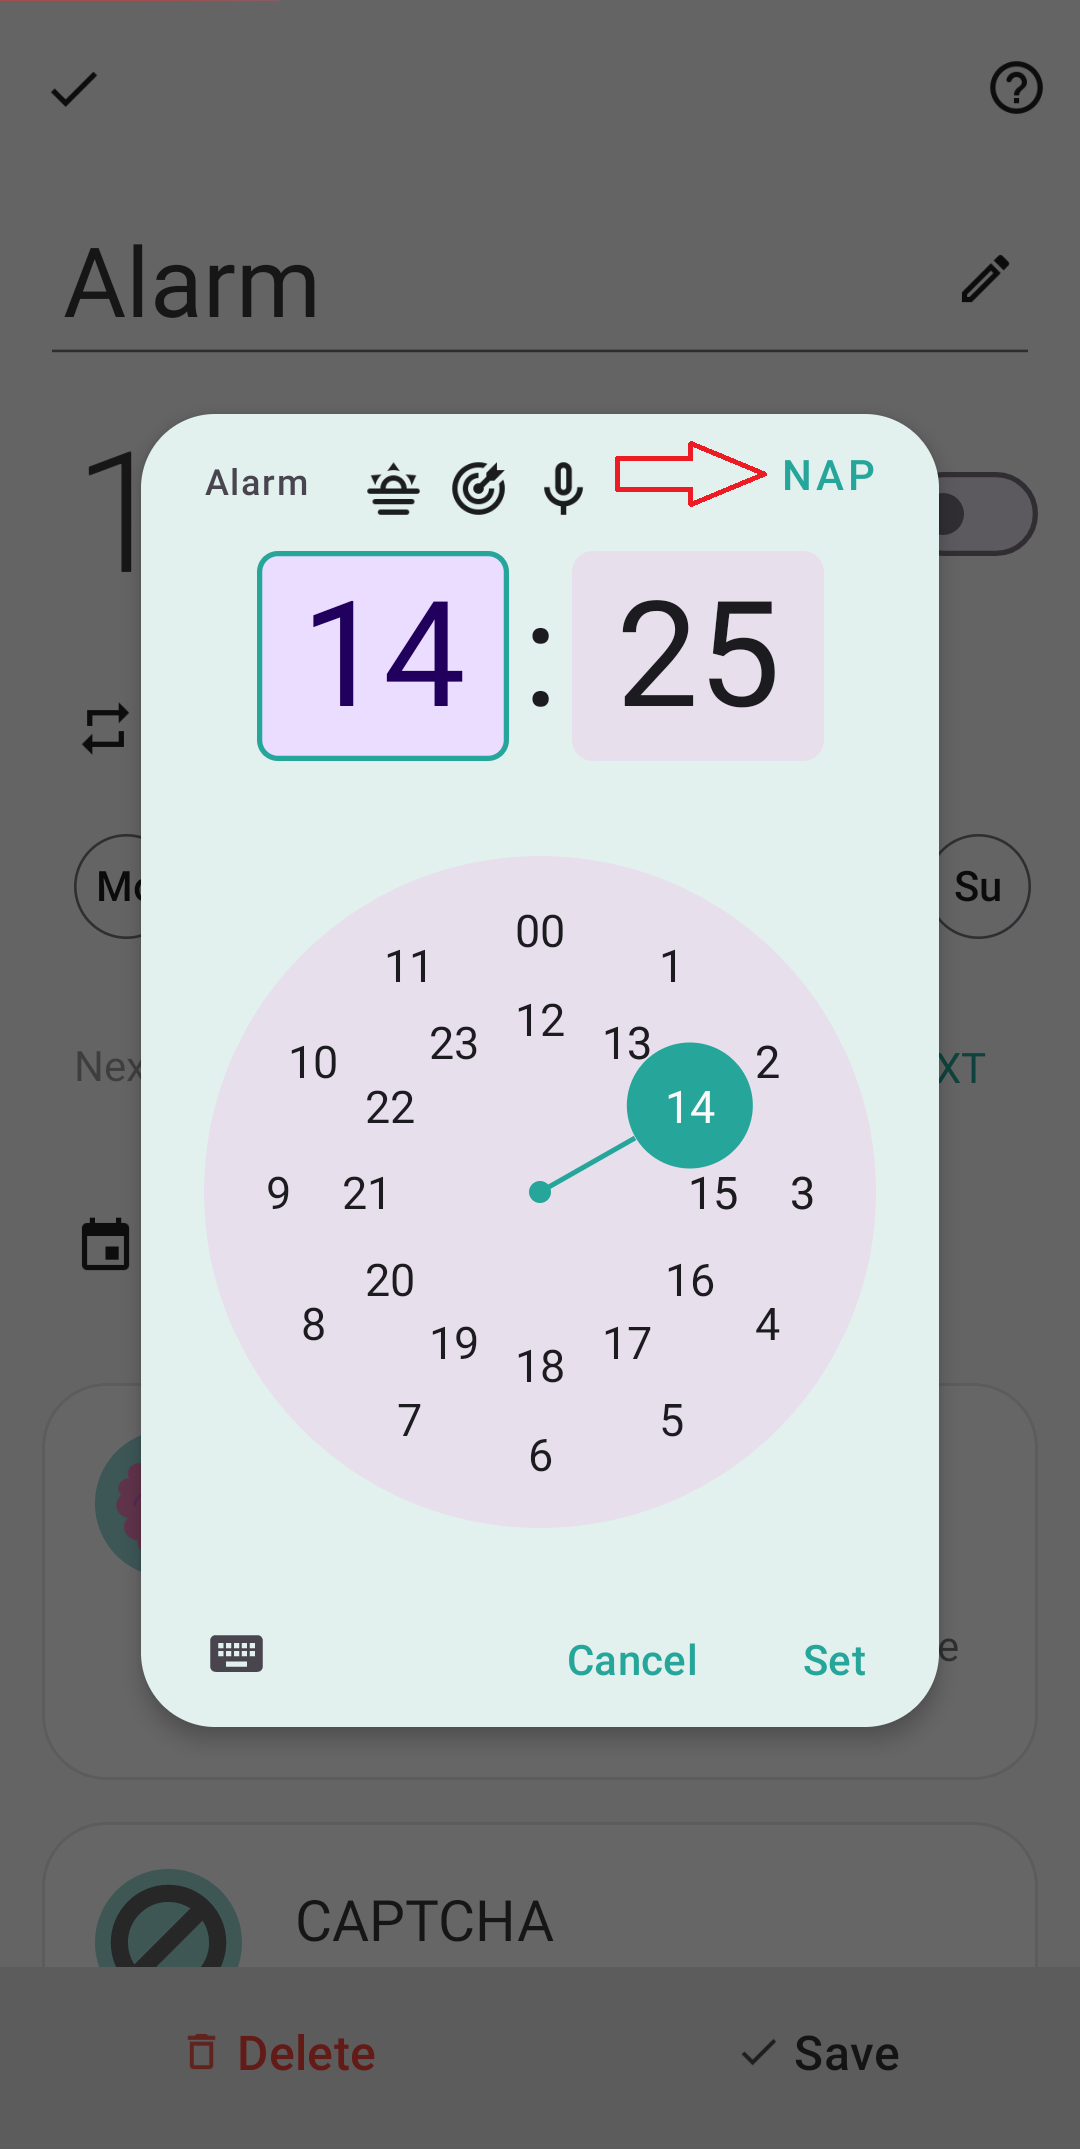
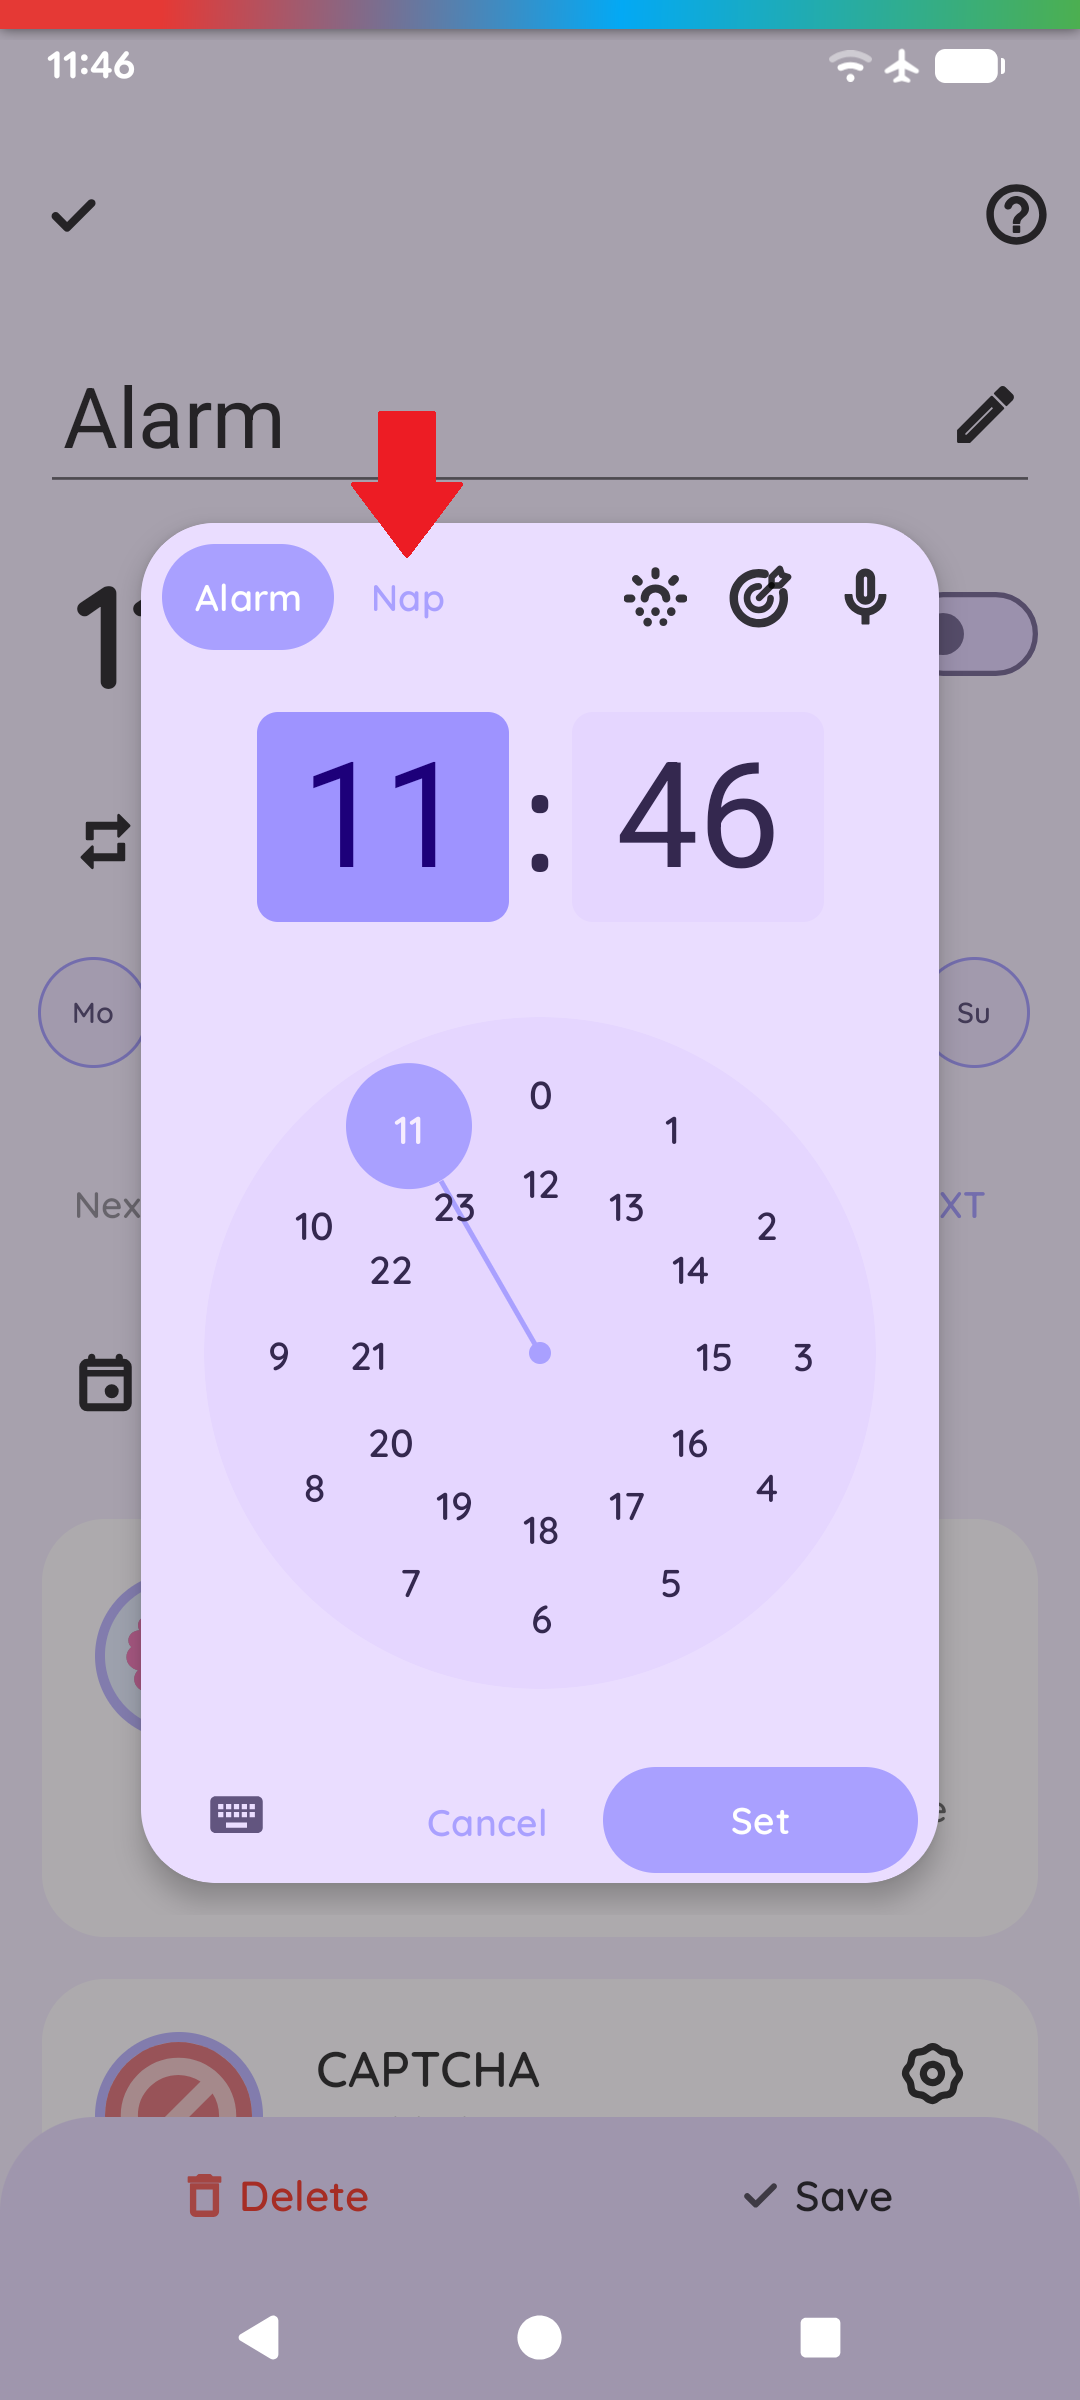
alarms + wearables chapters images

diff --git a/hugo/content/devices/supported_wearable.md b/hugo/content/devices/supported_wearable.md
@@ -16,7 +16,10 @@ tags:
 **Sleep as Android** supports a wide range of smartwatches and fitness trackers. Whether you use a modern Wear OS device, a classic Pebble, or a high-precision Polar strap, you can monitor your sleep cycles with ease.
 
 ### 🏆 Our Top Pick
+
 **TicWatch 5 PRO:** We currently recommend this model for the best experience. It offers a complete sensor suite including SpO2, HR, and HRV. [Read more about our top pick here](https://sleep.urbandroid.org/we-finally-have-a-new-king-of-smart-watch/).
+
+**Pebble Time 2:** As long-time fans of the original, we are thrilled to support the new Pebble models as well.
 
 ---
 
@@ -30,19 +33,18 @@ tags:
 
 ## Supported Devices
 
- Manufacturer | Device | Supported Sensors | Notes |
- :--- | :--- | :--- | :--- |
- **Mobvoi** | TicWatch Pro 5, Pro 3, E3 | ↝ ❤ 💟 ◌ | **Full Support.** Includes continuous SpO2 and HRV tracking. |
- **Wear OS** | Other Wear OS watches | ↝ ❤ | Requires the [watch app](/devices/wearos.html) from the Play Store. |
- **Pebble** | All models (Time, 2, Classic) | ↝ ❤ | [Pebble is still supported!](/devices/pebble.html) HR available on Pebble 2. |
- **Google** | Pixel Watch 1, 2, 3 | ↝ ❤ | SpO2 and HRV data is currently restricted by Google for 3rd party apps. |
- **Polar** | H10, OH1, Vantage, Pacer, Ignite | ❤ 💟 | High-precision tracking via [Polar BT](https://sleep.urbandroid.org/polar-sleep-tracking) or [Polar SDK](https://github.com/polarofficial/polar-ble-sdk/blob/master/documentation/UsingSDKWithWatches.md). |
- **Samsung** | Galaxy Watch 4 through 9 | ↝ ❤ | Requires the [watch app](/devices/one_ui.html) from the Play Store. |
- **Xiaomi** | Mi Band 1 through 9 | ↝ ❤ | Connect via [Notify for Mi Band](/devices/notify.html) or [Tools & Mi Band](/devices/tools). |
- **Amazfit** | Bip, GTS, GTR, T-Rex (most models) | ↝ ❤ | Connect via [Notify for Amazfit](/devices/notify.html) or [Tools & Amazfit](/devices/tools). |
- **Huawei** | Watch 1, 2, 3, 4, GT series | ↝ ❤ | Connect via [Health Connect](/services/health_connect.html) or [Notify](/devices/notify.html). |
- **Garmin** | All Connect IQ 2.0+ models | ↝ ❤ 💟 ◌ | Requires the [watch app from Garmin IQ Store](/devices/garmin.html). |
- **Fitbit** | Versa, Sense, Ionic | ↝ ❤ | Requires the **Fitbit Add-on**. Limited support. |
+| Manufacturer | Device | Supported Sensors | Watch app | Setup guide | Notes |
+| :--- | :--- | :--- | :--- | :--- | :--- |
+| **Mobvoi** | TicWatch Pro 5, Pro 3, E3 | ↝ ❤ 💟 ◌ | [YES](https://play.google.com/store/apps/details?id=com.urbandroid.sleep) | [Wear OS](/devices/wearos.html) | **Full Support.** Includes continuous SpO2 and HRV tracking. |
+| **Wear OS** | Other Wear OS watches | ↝ ❤ | [YES](https://play.google.com/store/apps/details?id=com.urbandroid.sleep) | [Wear OS](/devices/wearos.html) | SpO2 and HRV data is currently restricted by Google for 3rd party apps. |
+| **Pebble** | All models, new and old | ↝ ❤ | [YES](https://apps.repebble.com/sleep-as-android_52b77e12dfa4228e8200000a) | [Pebble](/devices/pebble.html) | Pebble is still supported! HR available on models with HR sensor. |
+| **Google** | Pixel Watch 1, 2, 3 | ↝ ❤ | [YES](https://play.google.com/store/apps/details?id=com.urbandroid.sleep) | [Wear OS](/devices/wearos.html) | SpO2 and HRV data is currently restricted by Google for 3rd party apps. |
+| **Polar** | H10, OH1, Vantage, Pacer, Ignite | ❤ 💟 | NO | [Wearables](/devices/wearables.html#polar) | High-precision tracking via [Polar BT](https://sleep.urbandroid.org/polar-sleep-tracking) or [Polar SDK](https://github.com/polarofficial/polar-ble-sdk/blob/master/documentation/UsingSDKWithWatches.md). |
+| **Samsung** | Galaxy Watch 4 through 9 | ↝ ❤ | [YES](https://play.google.com/store/apps/details?id=com.urbandroid.sleep) | [One UI](/devices/one_ui.html) | SpO2 and HRV data is currently restricted by Google for 3rd party apps. |
+| **Xiaomi** | Mi Band 1 through 9 | ↝ ❤ | NO | [Notify](/devices/notify.html) / [Tools](/devices/tools.html) | Direct integration is not possible. |
+| **Amazfit** | Bip, GTS, GTR, T-Rex (most models) | ↝ ❤ | NO | [Notify](/devices/notify.html) / [Tools](/devices/tools.html) | Direct integration is not possible. |
+| **Huawei** | Watch 1, 2, 3, 4, GT series | ↝ ❤ | NO | [Health Connect](/services/health_connect.html) / [Notify](/devices/notify.html) | Direct integration is not possible. |
+| **Garmin** | All Connect IQ 2.0+ models | ↝ ❤ 💟 ◌ | [YES](https://apps.garmin.com/developer/64548d1b-768a-4b1c-a3db-6a073b7e2c09/apps) | [Garmin](/devices/garmin.html) | - |
 
 ---
 

diff --git a/hugo/content/alarms/create_alarm.md b/hugo/content/alarms/create_alarm.md
@@ -19,17 +19,38 @@ You can create a new alarm from several places within the app depending on your 
 * **From the Dashboard:**
     Tap the ![ic_alarm_plus](/assets/icons/ic_alarm_plus.svg) button at the top of the screen on the alarm card.
 
+    <a id="dashboard_alarm"></a>
+
+    ![Create alarm from main Dashboard](/assets/images/dashboard_alarm.png)
+
 * **From the Tabs layout:**
     Tap the **(![ic_alarm_plus](/assets/icons/ic_alarm_plus.svg) Add Alarm)** button located in the top left, on the Alarms tab.
+
+    <a id="tabs_alarm"></a>
+
+    ![Create alarm from main Tabs](/assets/images/tabs_alarm.png)
 
 * **From the Alarms only layout:**
     Tap the **(![ic_alarm_plus](/assets/icons/ic_alarm_plus.svg) Add Alarm)** button located in the bottom right corner.
 
+    <a id="alarms_only_alarm"></a>
+
+    ![Create alarm from main Alarms only main page](/assets/images/alarms_only_alarm.png)
+
+
 * **From Your Phone's Home Screen:**
   Add the **Alarm Icon Widget** to your home screen for quick, one-tap creation. [(Learn more about widgets)](/ux/widgets)
 
+  <a id="widget_alarm"></a>
+
+  ![Create alarm from widgets](/assets/images/widget_alarm.png)
+
 * **Quick Sleep Tracking & Instant Alarm:**
   Use the **Shortcut Bar** on the Dashboard. This automatically creates a single-use alarm (with *Delete after ringing* enabled) and starts sleep tracking in one smooth step. For more details about Shortcuts, check out the [Dashboard](/ux/hs_dashboard#shortcut) chapter.
+
+  <a id="shortcut_alarm"></a>
+
+  ![Create alarm from Shortcut board on Dashboard](/assets/images/shortcut_alarm.png)
 
 ## Options for Entering the Alarm Time
 
@@ -56,6 +77,12 @@ Tap the numerical text box and type your target time directly in 24-hour **HHMM*
   > Requires location permissions enabled on your device.
 
 * **Sleep Goal Alarm:** Tap the **![ic_target](/assets/icons/ic_target.svg)** target button. The app will calculate your ideal wake-up time based on when you go to bed to help you hit your [Daily Sleep Duration Goal](/alarms/bedtime_notification#duration_goal).
+
+  <a id="new_alarm_options"></a>
+
+  ![New alarm options icons](/assets/images/new_alarm_options.png)
+
+
 
 ## Editing & Managing Alarms
 

diff --git a/hugo/content/devices/wearables.md b/hugo/content/devices/wearables.md
@@ -28,19 +28,21 @@ The app supports a wide range of devices including Wear OS, Garmin, Samsung Gala
 
 ---
 
-## Setup Guide <a id="wearable_setup"></a>
+## General Setup Guide <a id="wearable_setup"></a>
 
 1.  **Check Compatibility:** Ensure your device is supported. [See the list of integrated wearables here](/devices/supported_wearable).
 2.  **Bluetooth Connection:** Confirm your watch is actively connected to your phone via its official companion app (e.g., Garmin Connect, Galaxy Wearable, or Zepp).
 3.  **Install Bridge Apps:** Most wearables require a small "bridge" app or watch component. See the specific page for your device in the sidebar for details.
 4.  **Activate in Sleep:** Go to `Settings` → `Sleep tracking` → `Wearables` → `Wearables` and select your device type.
-5.  **Verify:** We highly recommend running a [Sensor Test](/devices/test_sensor) to confirm data is flowing correctly before your first night.
+5.  **Verify:** We highly recommend running a [Sensor Test](/devices/test_sensor) to confirm data is flowing correctly before your first night. On models with no support for sensor test (Garmin, FitBit, Pebble), test connection by starting a short tracking.
 
 > [!NOTE]
 > Sleep data is analyzed in real-time. To ensure accurate graphs and smart alarms, your phone's **Bluetooth must remain active** and connected to the watch throughout the entire night.
 
 ---
 
+
+<a id="silent_alarm"></a>
 ## Silent Wrist Alarms
 
 You can configure your alarm to vibrate on your wrist only, providing a quiet wake-up call that won't disturb your partner.

diff --git a/hugo/content/devices/test_sensor.md b/hugo/content/devices/test_sensor.md
@@ -29,6 +29,7 @@ When you start the sensor test, Sleep as Android attempts to establish a live co
 
 <a id="wearable-test"></a>
 **Successful sensor test (wearable)**
+
 ![](test_wearable.png)
 
 ## What to Look For on the Graph
@@ -42,6 +43,7 @@ When you start the sensor test, Sleep as Android attempts to establish a live co
 
 <a id="wearable-test_comp"></a>
 **Successful vs failed test of wearable connection**
+
 ![](wearable_test.png)
 
 ---

diff --git a/hugo/content/devices/smart_light.md b/hugo/content/devices/smart_light.md
@@ -66,6 +66,10 @@ A true sunrise alarm starts brightening the room *before* the audio alarm begins
 > *   **Gentle Volume Duration:** 24 minutes.
 > *   **Behavior:** The light and the (initially silent) audio start together. The light will take the full 24 minutes to reach maximum brightness.
 
+  <a id="sunrise_alarm_screen"></a>
+
+  ![Alarm screen with sunrise effect](/assets/images/sunrise_alarm.png)
+
 ---
 
 > [!WARNING]

diff --git a/hugo/content/general/start.md b/hugo/content/general/start.md
@@ -20,9 +20,10 @@ The goal of your first night is to find the "perfect window" to wake up. The res
 
 <a id="phone_placement"></a>
 **Phone placement**
+
 ![Phone position](/assets/images/position.png)
 
-## Your First Morning ☀
+## Your First Morning ☀ test
 
 What am I looking at?
 

diff --git a/hugo/content/general/release_notes.md b/hugo/content/general/release_notes.md
@@ -14,7 +14,11 @@ You can download any older version from [our website here](https://sleep.urbandr
 ---
 
 
-## Latest version 20260828
+## Latest version 20260901
+
+* Targeting Android 16 APIs
+
+## 20260828
 
 * New Documentation website
 * More visual fixes in score pies
